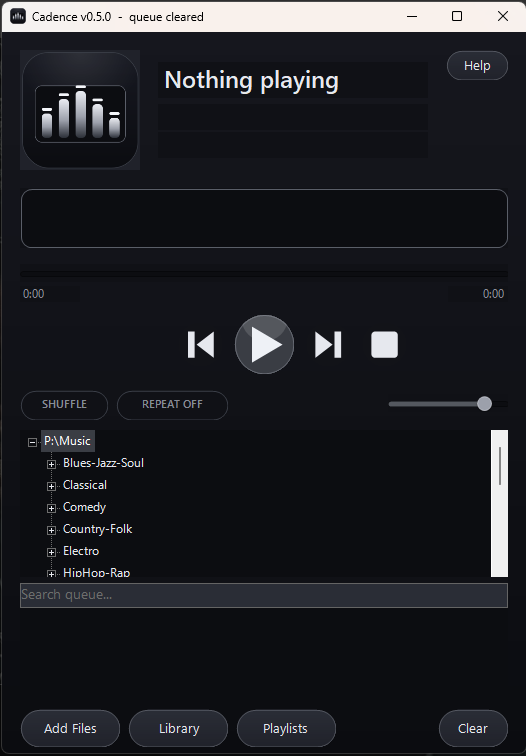
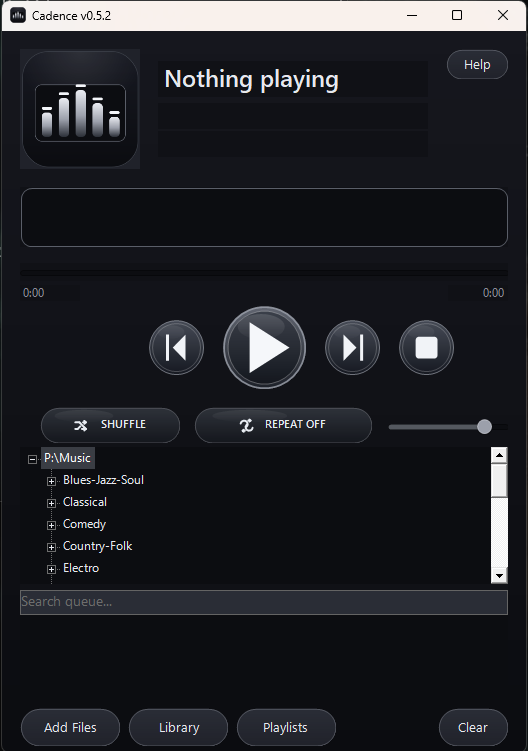
Cadence v0.5.2: refine transport controls to match mockup

diff --git a/Windows/Powershell/scripts/personaltools/Cadence/README.md b/Windows/Powershell/scripts/personaltools/Cadence/README.md
@@ -8,13 +8,17 @@ A sleek, fully owner-drawn local audio player for Windows — monochrome
 Material-style UI, NAudio engine, live FFT visualizer, and a real library
 browser. Part of the `personaltools/` toolkit.
 
-**Latest: v0.5.0** · [Changelog](https://github.com/MikereDD/It-Works-On-My-Machine/blob/main/Windows/Powershell/scripts/personaltools/Cadence/CHANGELOG.md)
+**Latest: v0.5.2** · [Changelog](https://github.com/MikereDD/It-Works-On-My-Machine/blob/main/Windows/Powershell/scripts/personaltools/Cadence/CHANGELOG.md)
 
 ## Screenshots
 
 | Library &amp; search | Now playing |
 |:---:|:---:|
-| ![Library browser with queue search](docs/screenshot-library.png) | ![Playing a track with the live visualizer](docs/screenshot-playing.png)
+| ![Library browser with queue search](docs/screenshot-library.png) | ![Playing a track with the live visualizer](docs/screenshot-playing.jpg) |
+
+## What's new in v0.5.2
+- **Transport controls refined to closely match the approved glossy mockup** — previous, play/pause, next, and stop now use more dimensional circular buttons with a stronger center emphasis on the primary play/pause control.
+- **Shuffle / repeat chips refined** — the toggle pills now include icons and a fuller raised treatment so they read more clearly as player controls.
 
 ## Highlights
 - **Wide format support** — MP3, FLAC, M4A/AAC, WAV, WMA, OGG, OPUS via NAudio

diff --git a/Windows/Powershell/scripts/personaltools/Cadence/CHANGELOG.md b/Windows/Powershell/scripts/personaltools/Cadence/CHANGELOG.md
@@ -7,6 +7,27 @@ and this project adheres to [Semantic Versioning](https://semver.org/spec/v2.0.0
 
 ## [Unreleased]
 
+## [0.5.2] - 2026-07-04
+
+Transport-control mockup matching pass.
+
+### Changed
+- Refined previous, play/pause, next, and stop controls to better match the approved glossy mockup.
+- Enlarged the primary play/pause button and increased transport spacing for a more centered media-player look.
+- Tightened the previous/next glyph proportions and stop-button padding so the icons read cleaner at a glance.
+- Restyled shuffle and repeat chips with brighter icons, stronger contrast, and more polished pill sizing.
+- Updated README and HELP for the control-refinement release.
+
+## [0.5.1] - 2026-07-04
+
+Transport and control-button polish pass.
+
+### Changed
+- Previous, play/pause, next, and stop now use a more dimensional circular control treatment, with a larger emphasized primary play/pause button.
+- Shuffle and repeat pills were restyled with icons, fuller raised surfaces, and clearer control-state contrast.
+- The transport row spacing was adjusted so the larger control buttons still sit cleanly in the center of the app.
+- README and HELP were updated for the control polish pass.
+
 ## [0.5.0] - 2026-07-04
 
 Stability and polish release. No major feature push; this pass tightens the app

diff --git a/Windows/Powershell/scripts/personaltools/Cadence/HELP.md b/Windows/Powershell/scripts/personaltools/Cadence/HELP.md
@@ -269,3 +269,11 @@ still play the correct file. If it does not, clear the search box and try again.
 ### Visualizer does not move
 Playback should still work even if the visualizer tap fails. Check
 `cadence-startup.log` for startup or compiler errors.
+
+## UI polish note (v0.5.1)
+- Transport buttons now use the updated glossy circular style shown in the current mockup.
+- Shuffle and repeat now render as icon chips for clearer state and a more consistent control row.
+
+## UI polish note (v0.5.2)
+- Transport buttons were refined again to more closely match the approved Cadence control mockup.
+- Shuffle and repeat chips now use brighter icons and a more polished glossy pill treatment.
